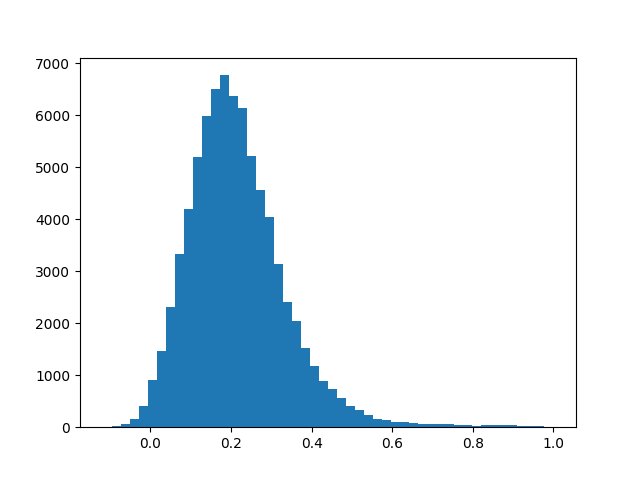
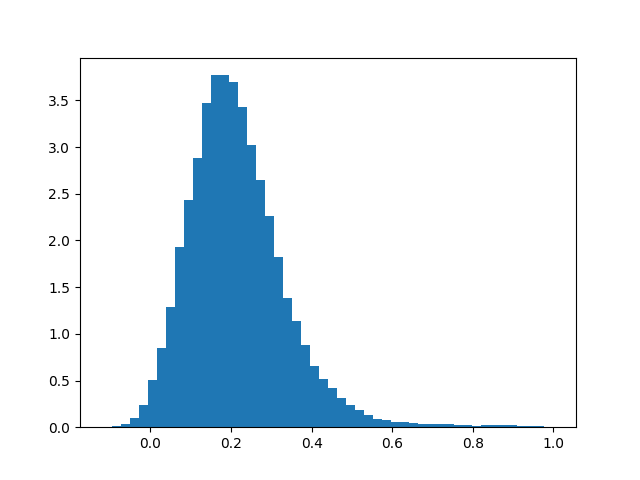
t-SNE and k-means

diff --git a/histograms.py b/histograms.py
@@ -1,6 +1,9 @@
 from sentence_transformers import SentenceTransformer, SimilarityFunction
 import numpy as np
 import matplotlib.pyplot as plt
+from sklearn.manifold import TSNE
+from sklearn.cluster import KMeans
+from sklearn.neighbors import KNeighborsClassifier
 
 modelName = str(
     # 'thenlper/gte-base')
@@ -13,8 +16,8 @@ modelName = str(
     # 'intfloat/e5-base-v2')
     # 'intfloat/e5-large-v2')
     # 'Snowflake/snowflake-arctic-embed-l-v2.0')
-    # 'sentence-transformers/average_word_embeddings_glove.6B.300d')
-    'sentence-transformers/average_word_embeddings_komninos')
+    'sentence-transformers/average_word_embeddings_glove.6B.300d')
+    # 'sentence-transformers/average_word_embeddings_komninos')
     # 'sentence-transformers/all-mpnet-base-v2')
     # 'sentence-transformers/all-MiniLM-L12-v2')
     # 'sentence-transformers/sentence-t5-xl')
@@ -29,22 +32,84 @@ model = SentenceTransformer(modelName)
     # device="cpu",
     # config_kwargs={"use_memory_efficient_attention": False, "unpad_inputs": False})
 
-model.similarity_fn_name = SimilarityFunction.COSINE
+##########################################################################################
+
+
 with open('Justifications1Col.txt', 'r') as file:
     documents = file.readlines()
 
 documents = [line.strip() for line in documents]
-
 embeddings = model.encode(documents, normalize_embeddings=False)
 
-similarities = model.similarity(embeddings, embeddings)
+#for e5 models
+# queries = []
+# for each in documents:
+#     queries.append(f"query: {each}")
+# embeddings = model.encode(queries, normalize_embeddings=False)
 
-lowerTriangle = []
-for i in range(len(documents)):
-    for j in range(i):
-        lowerTriangle.append(similarities[i][j].item())
+##########################################################################################
 
-plt.hist(lowerTriangle, 50, density=True)
-plt.savefig(f'results/{modelName}/histogram.png')
+# reduce embedding dimensions
+tsne = TSNE(n_components=2)
+reduced_embeddings = tsne.fit_transform(embeddings)
+# print(reduced_embeddings)
+# print(reduced_embeddings.shape)
+
+###########################################################################################
+
+# do kmeans
+kmeans = KMeans(n_clusters=99, random_state=0)
+# Fit the model to your data
+kmeans.fit(reduced_embeddings)
+# Get the cluster labels for each point
+labels = kmeans.labels_
+
+# print("Cluster labels:")
+# print(labels)
+# for i in range(len(reduced_embeddings)):
+#     print(reduced_embeddings[i])
+
+plt.figure(figsize=(8, 6))
+for i, (x, y) in enumerate(reduced_embeddings):
+    plt.annotate(i, (x, y), textcoords="offset points", xytext=(0,10), ha='center')  
+# plt.show()
+
+plt.scatter(kmeans.cluster_centers_[:, 0], kmeans.cluster_centers_[:, 1], marker='*', s=100, c='Silver', label='Centroids')
+plt.scatter(reduced_embeddings[:, 0], reduced_embeddings[:, 1], c=labels)
+plt.title("K-means Clustering")
+
+for i in range(0, len(reduced_embeddings), 4):
+    # group by scenario
+    points = np.array([reduced_embeddings[i], reduced_embeddings[i+1], reduced_embeddings[i+2], reduced_embeddings[i+3]])
+    kmeans = KMeans(n_clusters=1)
+    kmeans.fit(points)
+    # Get the centroid coordinates of the single cluster
+    centroid_x, centroid_y = kmeans.cluster_centers_[0]
+    plt.scatter(centroid_x, centroid_y, marker='*', s=50, c='gold', label='Centroids')
+    # plot connection from centroid to components
+    for i in range(len(points)):
+        plt.plot([points[i, 0], centroid_x], [points[i, 1], centroid_y], 'PaleGoldenRod', linewidth=1, ls=':')
+
+    # print("Centroid:", (centroid_x, centroid_y))
+
+plt.show()
+
+#########################################################################################
+
+# Get cosine similarity
+# similarities = model.similarity(embeddings, embeddings)
+
+
+# lowerTriangle = []
+# for i in range(len(documents)):
+#     for j in range(i):
+#         lowerTriangle.append(similarities[i][j].item())
+
+# plt.hist(lowerTriangle, 50, density=True)
+# plt.savefig(f'results/{modelName}/histogram.png')
+
+# plt.show()
+
+#########################################################################################
 plt.close()
 

diff --git a/transformer.py b/transformer.py
@@ -1,0 +1,51 @@
+import torch.nn.functional as F
+from sklearn.metrics.pairwise import cosine_similarity
+from torch import Tensor
+from transformers import AutoTokenizer, AutoModel
+import matplotlib.pyplot as plt
+
+def average_pool(last_hidden_states: Tensor,
+                 attention_mask: Tensor) -> Tensor:
+    last_hidden = last_hidden_states.masked_fill(~attention_mask[..., None].bool(), 0.0)
+    return last_hidden.sum(dim=1) / attention_mask.sum(dim=1)[..., None]
+
+
+# Each input text should start with "query: " or "passage: ".
+# For tasks other than retrieval, you can simply use the "query: " prefix.
+with open('Justifications1Col.txt', 'r') as file:
+    documents = file.readlines()
+
+documents = [line.strip() for line in documents]
+# embeddings = model.encode(documents, normalize_embeddings=False)
+
+#for e5 models
+queries = []
+for each in documents:
+    queries.append(f"query: {each}")
+# embeddings = model.encode(queries, normalize_embeddings=False)
+
+tokenizer = AutoTokenizer.from_pretrained('intfloat/e5-base-v2')
+model = AutoModel.from_pretrained('intfloat/e5-base-v2')
+
+# Tokenize the input texts
+batch_dict = tokenizer(queries, max_length=512, padding=True, truncation=True, return_tensors='pt')
+
+outputs = model(**batch_dict)
+embeddings = average_pool(outputs.last_hidden_state, batch_dict['attention_mask'])
+print(embeddings)
+
+# normalize embeddings
+embeddings = F.normalize(embeddings, p=2, dim=1)
+emb_detached = embeddings.detach()
+similarities = cosine_similarity(emb_detached, emb_detached)
+
+lowerTriangle = []
+for i in range(len(documents)):
+    for j in range(i):
+        lowerTriangle.append(similarities[i][j].item())
+
+plt.hist(lowerTriangle, 50, density=True)
+# plt.savefig(f'results/{modelName}/histogram.png')
+
+plt.show()
+plt.close()

diff --git a/main.py b/main.py
@@ -9,13 +9,13 @@ modelName = str(
     # "Mihaiii/Ivysaur")
     # "Mihaiii/Bulbasaur")
     # "Mihaiii/Venusaur")
-    # 'intfloat/e5-small-v2')
+    'intfloat/e5-small-v2')
     # 'intfloat/e5-base-v2')
     # 'intfloat/e5-large-v2')
     # 'Snowflake/snowflake-arctic-embed-l-v2.0')
     # 'sentence-transformers/average_word_embeddings_glove.6B.300d')
     # 'sentence-transformers/average_word_embeddings_komninos')
-    'sentence-transformers/all-mpnet-base-v2')
+    # 'sentence-transformers/all-mpnet-base-v2')
     # 'sentence-transformers/all-MiniLM-L12-v2')
     # 'sentence-transformers/sentence-t5-xl')
     # 'sentence-transformers/gtr-t5-xl')

diff --git a/testing.py b/testing.py
@@ -1,0 +1,6 @@
+sentences = ["this is one", "this is another", "this is a third"]
+queries = []
+for each in sentences:
+    queries.append(f"query: {each}")
+for each in queries:
+    print(each)
